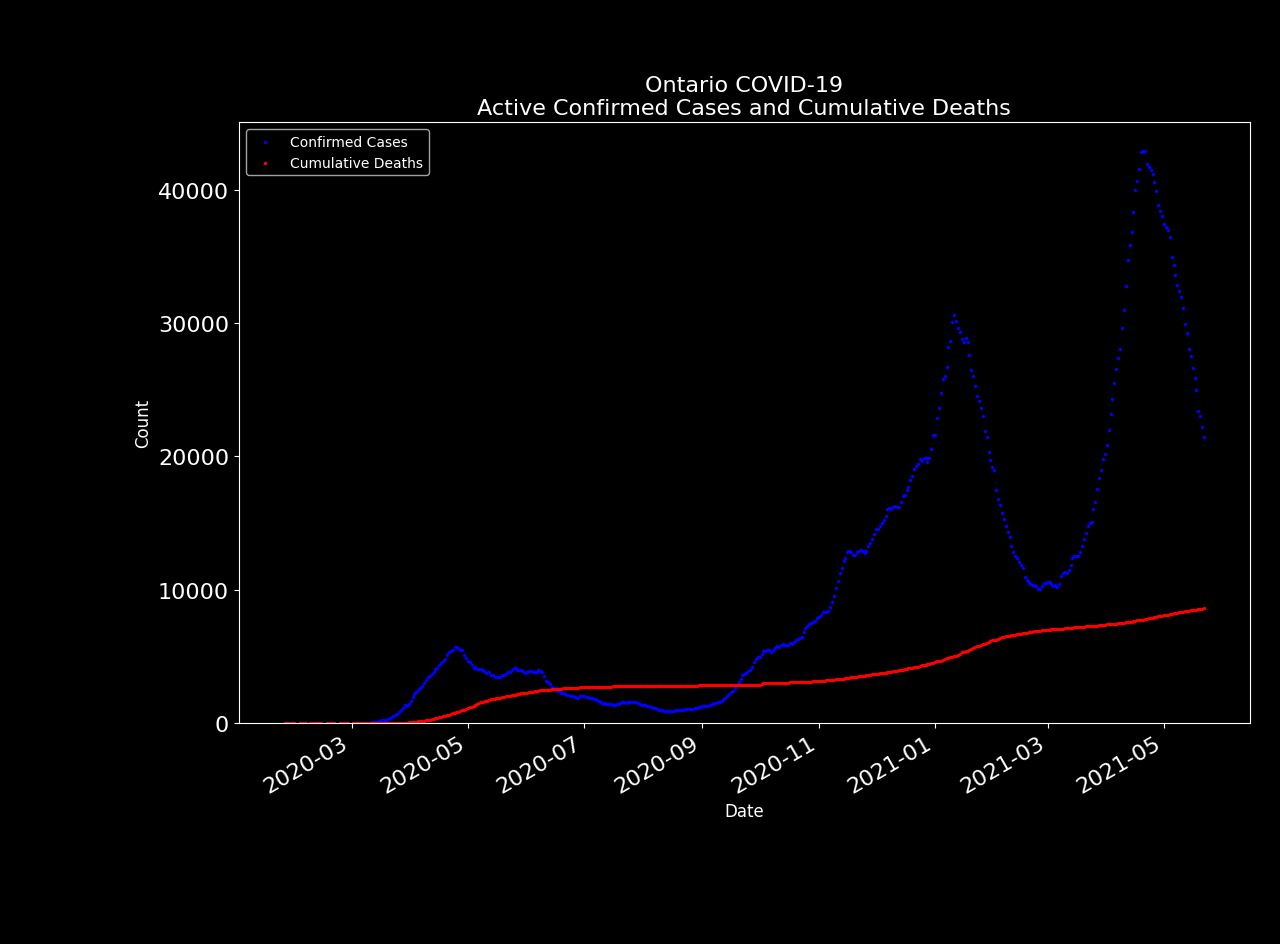
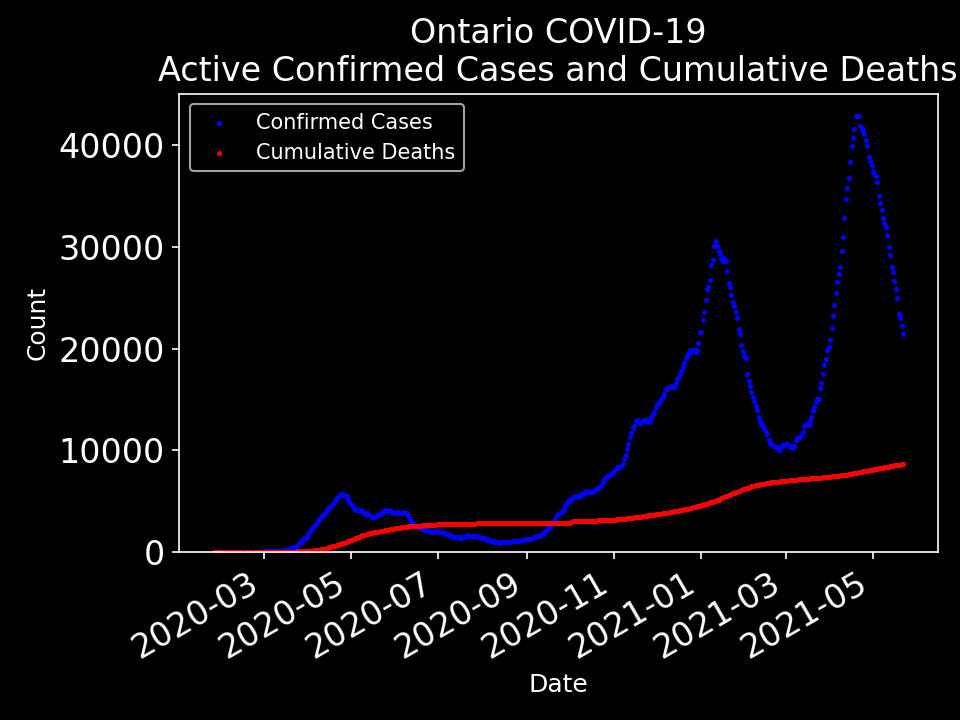
fixed date format

diff --git a/covid-status-ontario-csv.py b/covid-status-ontario-csv.py
@@ -17,7 +17,7 @@ header_row = next(reader)
 # Get dates, case and death counts from CSV file.
 dates, casesOnt, deaths = [], [], []
 for row in reader:
-    current_date = datetime.strptime(row[0], "%m-%d-%Y")
+    current_date = datetime.strptime(row[0], "%Y-%m-%d")
 
     if row[4] == "":
         caseOnt = 0
